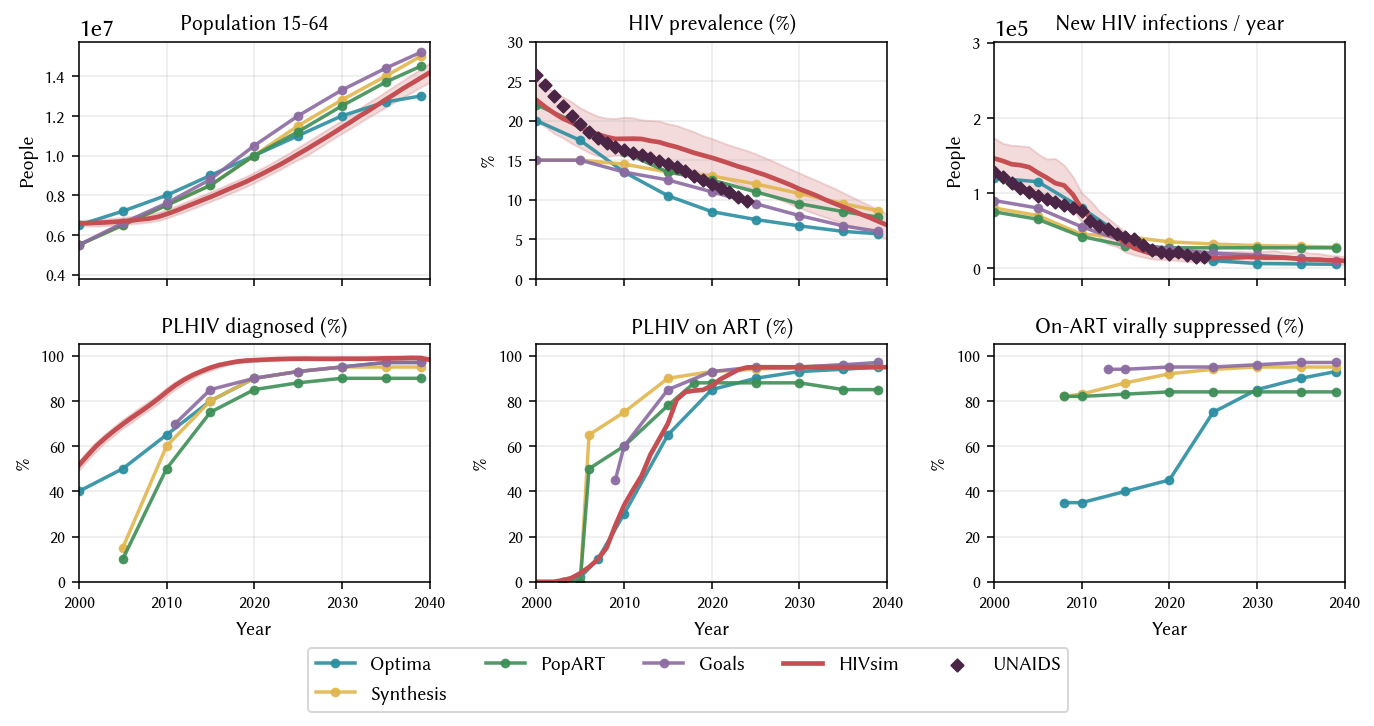
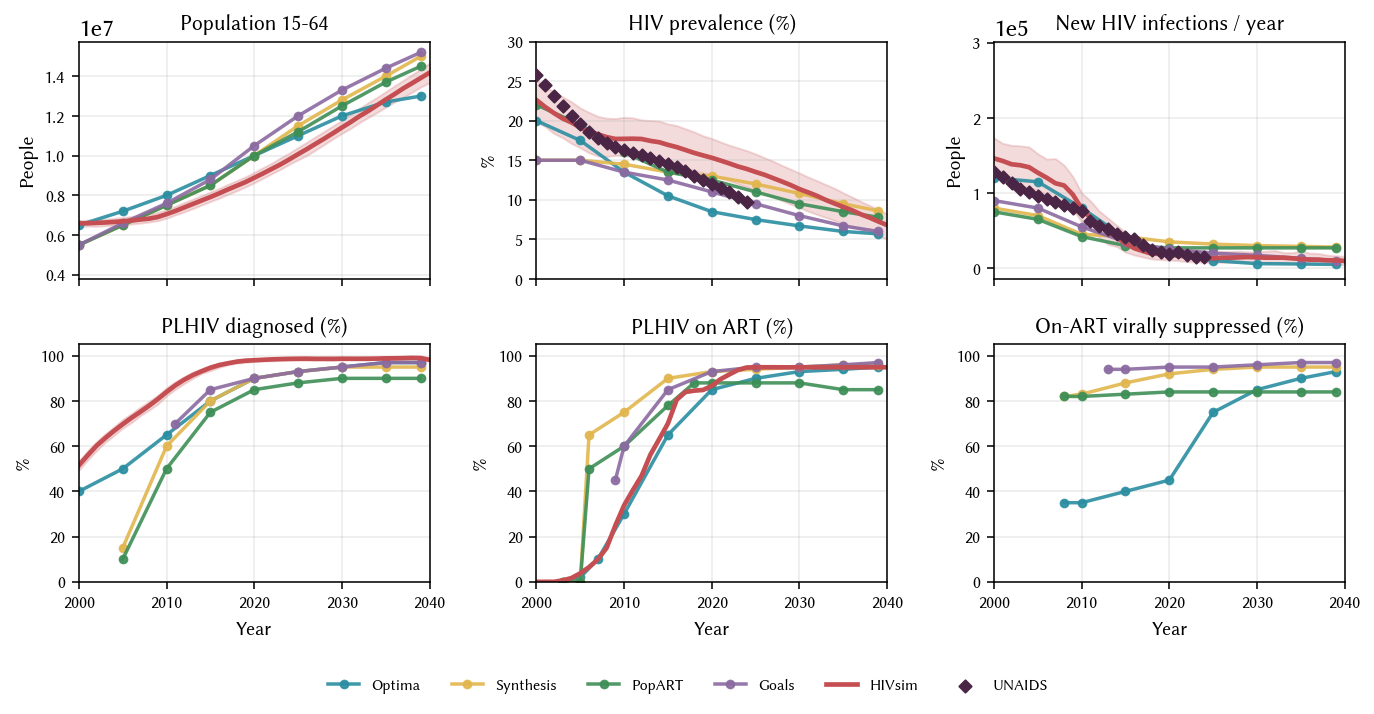
Fig 2: single-row frameless legend

diff --git a/plot_fig2_replica.py b/plot_fig2_replica.py
@@ -160,8 +160,8 @@ def main():
         for h, l in zip(*ax.get_legend_handles_labels()):
             if l not in labels:
                 handles.append(h); labels.append(l)
-    fig.legend(handles, labels, loc='lower center', ncol=5, fontsize=10,
-               bbox_to_anchor=(0.5, -0.05))
+    fig.legend(handles, labels, loc='lower center', ncol=len(labels),
+               fontsize=8, frameon=False, bbox_to_anchor=(0.5, -0.03))
 
     fig.tight_layout(rect=[0, 0.03, 1, 1.0])
 
